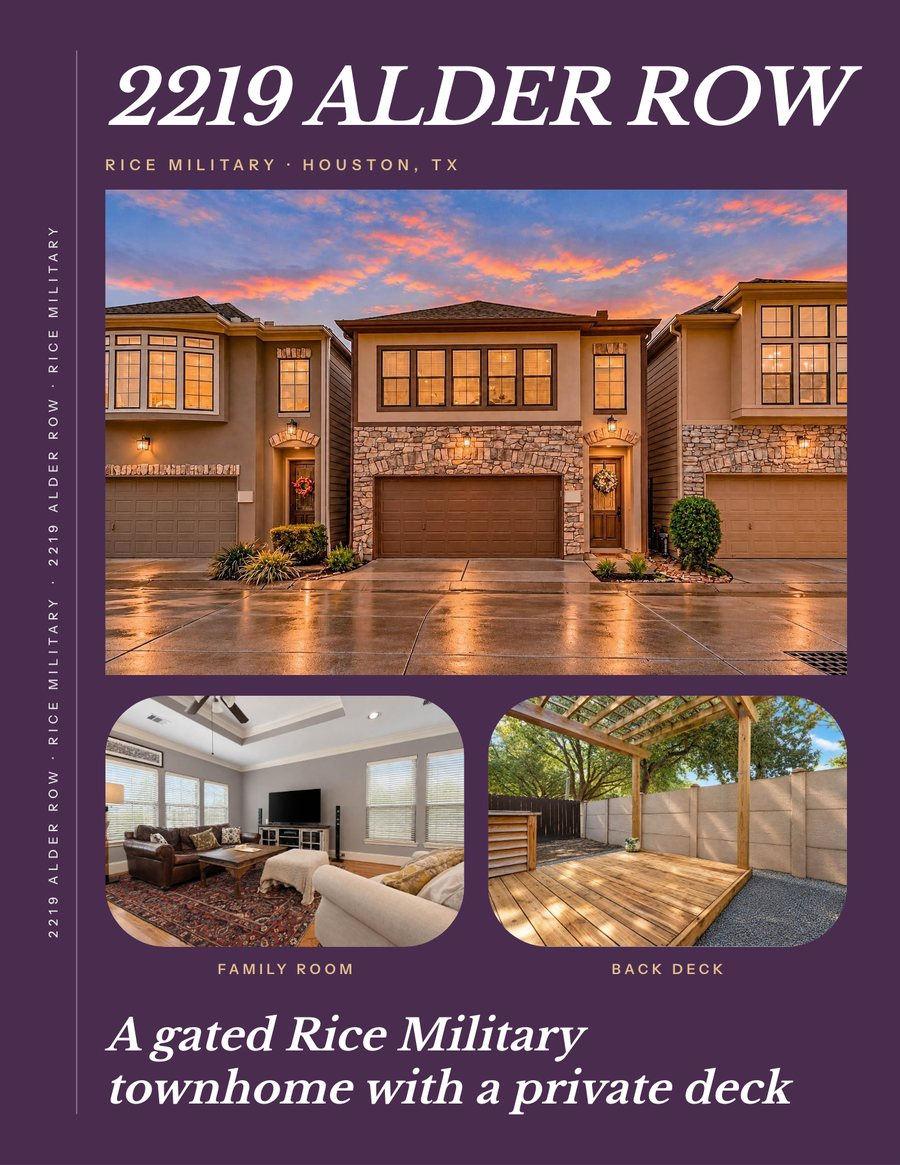
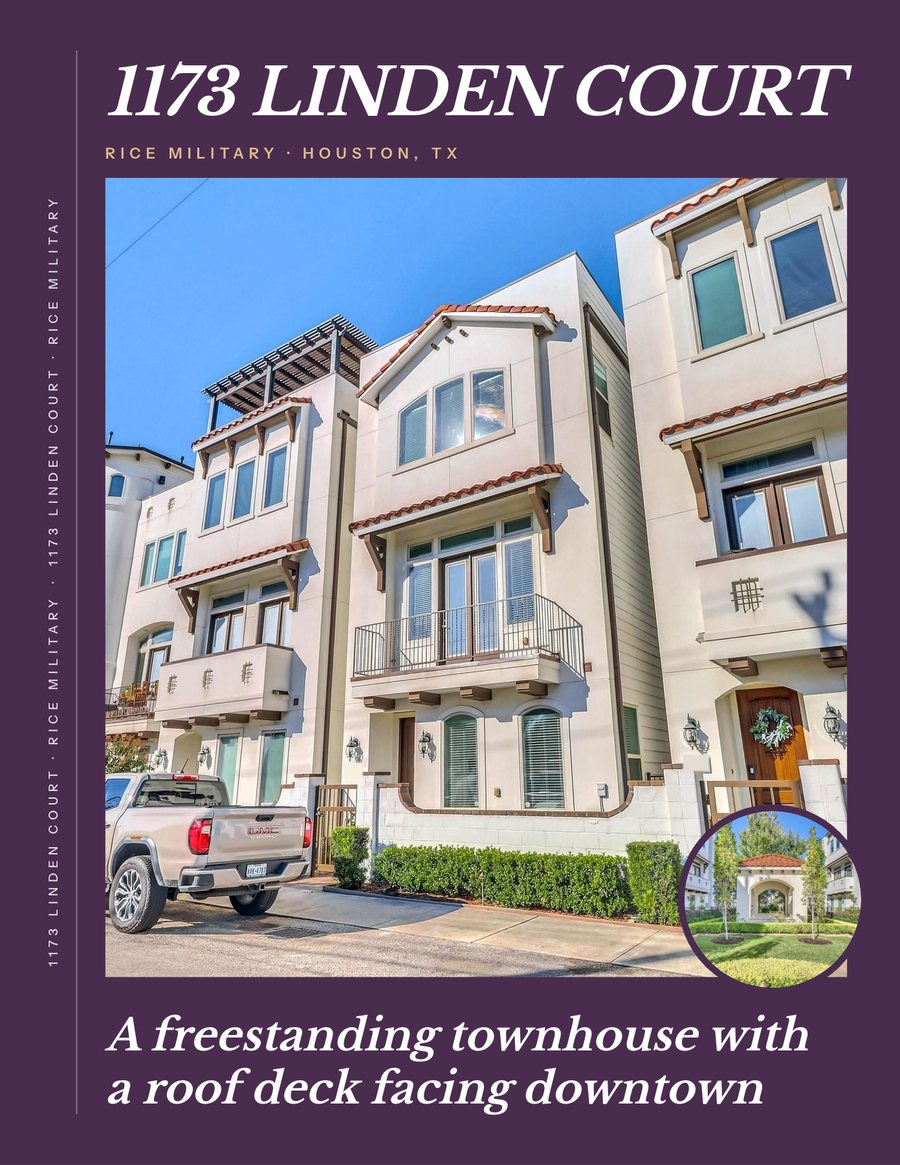
Garden Serif cover B, Asymmetric Just Sold 6x9 and Diagonal Just Sold 6x11 live (approved 11/24/2026)

diff --git a/designs/garden-serif/gs-fo.js b/designs/garden-serif/gs-fo.js
@@ -277,7 +277,7 @@
   // The Open House flyer's own order, grown into the listing's cover: the rail with the street and the neighborhood; the street as the
   // display words, as large as the measure allows; the place in champagne caps; the house wide, the round room photo laid over its
   // top corner (over the sky, never the house); one Libre italic line at the foot.
-  FO.COVER = 'onebr';   // owner 11/23 (p1): the earlier cover, its one round photo at the bottom right corner
+  FO.COVER = 'corner';   // owner 11/24 (books 2-3 round 2, Q1): cover B, the street on one line, the house full size, one round photo
   // the cover's small rooms: the plan's strip first, then the listing's other room photos, never a photo or a space the fold-over shows elsewhere
   FO.coverRooms = (D, n) => { const P = (D.sw || {}).plan || {}, ph = D.photos || {}, used = new Set([].concat(P.left || [], P.right || [], P.backRow || ['bath2'], D.plan ? [] : [(P.back || [])[0] || (P.backNoplan || [])[0]].filter(Boolean))), usedSp = new Set([...used].map(id => SW.space(D, id)));
     const cand = [].concat(P.strip || [], Object.keys(ph)).filter((id, i, a) => a.indexOf(id) === i && ph[id] && !ph[id].fullHouse && !used.has(id) && !usedSp.has(SW.space(D, id)) && !/^(front|exterior|aerial|street|plan|evening|twilight|dusk)/i.test(id) && !/front|aerial|street/i.test(ph[id].tags || ''));
@@ -563,18 +563,32 @@
   FO.back = (D, o) => { o = o || {}; const K = D.sw || {}, KB = K.back || {}, FB = ((D.companion || {}).flyer || {}).back || {}, hasPlan = !!D.plan, P = K.plan || {}, flyer = !!o.flyer, issues = [];
     const topId = flyer ? P.flyerTop : (P.back || [])[0] || (P.backNoplan || [])[0];
     const rowIds = flyer ? (P.flyerBack || []).slice(0, 3) : (P.backRow || ['bath2']).slice(0, 3), rowCards = FO.cards(D, rowIds);
-    const TOP = 30, CT = FO.CARD_Y - 14, TBH = 104, TBY = CT - TBH, n = Math.max(1, rowCards.length), RH = flyer ? (n > 2 ? 106 : 118) : (n > 2 ? 112 : 128), CL = 3, clh = 13, RY = TBY - 14 - CL*clh - 8 - RH, ZB = RY - 20;
+    const TOP = 30, CT = FO.CARD_Y - 14, TBH = 104, TBY = CT - TBH, n = Math.max(1, rowCards.length), CL = 3, clh = 13; let RH = flyer ? (n > 2 ? 106 : 118) : (n > 2 ? 112 : 128), RY = TBY - 14 - CL*clh - 8 - RH, ZB = RY - 20, wuB = null;
     let h = GS.rail('left', (D.listing || {}).address), t = '', colX, colW;
-    // the row of captioned photos
-    { const g = 16, pw = (CW - (n - 1)*g)/n; rowCards.forEach((c, i) => { h += FO.capT(D, c, X0 + i*(pw + g), RY, pw, RH, CL, 'back.photo' + i, {fs: n > 2 ? 9.25 : 10, lh: clh, min: 3}); }); }
     // the plan (its box its own width, on the right) or the outdoor photo
-    if(hasPlan){ const PM = (D.plan.levels || []).length >= 3 ? 340 : 300, RT = FO.roomTable(D), tNeed = RT.rows.length ? 12 + 20 + Math.ceil(RT.rows.length/2)*20 : 0;
+    // owner 11/24 (books 2-3 round 2 p4, p6; a standing rule for every plan with a room sizes table): the plan larger and taller, closer to the
+    // top; the table tighter (short ruled rows) and listing every room with its size
+    if(hasPlan){ const PM = (D.plan.levels || []).length >= 3 ? 360 : 330, PT = 16, RT = FO.roomTable(D), need = RT.rows.length ? FO.roomTableNeed(RT) : 0;
+      let wide = false, tNeed = RT.rows.length ? 10 + FO.RT_KH + Math.ceil(RT.rows.length/2)*FO.RT_RH : 0;
       // owner 11/23 (books 2-3 p5, every flyer back; carried to the fold-over back, same builder): the plan moves up to the top and a table of
       // the listing's room sizes (its facts when it gives none) sits under it, in the plan's own width, down to the photo row
-      const pM = Math.max(160, ZB - TOP - 36 - tNeed), pc0 = FO.planBox(D, X0, TOP, pM, PM), pw = Math.round(parseFloat(/width:([\d.]+)pt/.exec(pc0.html)[1])), py = RT.rows.length ? TOP : TOP + Math.max(0, (ZB - TOP - (pc0.bottom - TOP))/2), pc = FO.planBox(D, X1 - pw, py, pM, PM);
+      let pM = Math.max(160, ZB - PT - tNeed), pc0 = FO.planBox(D, X0, PT, pM, PM);
+      for(let k = 0; k < 4 && RT.rows.length && pc0.bottom + tNeed > ZB + 0.5 && pM > 160; k++){ pM = Math.max(160, pM - (pc0.bottom + tNeed - ZB)); pc0 = FO.planBox(D, X0, PT, pM, PM); }   // the plan's card can run taller than asked: the table keeps its full rows
+      // the room names do not fit two to a row under the plan: the table runs the page's full width in four columns under the plan and the write-up
+      if(RT.rows.length && need > Math.round(parseFloat(/width:([\d.]+)pt/.exec(pc0.html)[1])) + 0.5){ wide = true; tNeed = 10 + FO.RT_KH + Math.ceil(RT.rows.length/4)*FO.RT_RH; pM = Math.max(160, ZB - PT - tNeed); pc0 = FO.planBox(D, X0, PT, pM, PM);
+        for(let k = 0; k < 4 && pc0.bottom + tNeed > ZB + 0.5 && pM > 160; k++){ pM = Math.max(160, pM - (pc0.bottom + tNeed - ZB)); pc0 = FO.planBox(D, X0, PT, pM, PM); } }
+      const pw = Math.round(parseFloat(/width:([\d.]+)pt/.exec(pc0.html)[1])), py = RT.rows.length ? PT : PT + Math.max(0, (ZB - PT - (pc0.bottom - PT))/2), pc = FO.planBox(D, X1 - pw, py, pM, PM);
       h += pc.html; issues.push(...pc.issues); window.planIssues = pc.issues; colX = X0; colW = X1 - pw - 22 - X0;
-      if(RT.rows.length) h += FO.roomTableHtml(RT, X1 - pw, pc.bottom + 14, pw, ZB - pc.bottom - 14); }
+      if(RT.rows.length){ const nc = wide ? 4 : 2, tw = wide ? CW : pw, rowsN = Math.ceil(RT.rows.length/nc), tH = FO.RT_KH + rowsN*FO.RT_RH;
+        // a plan that cannot grow (its own resolution or width) leaves room: the table's rows take a little, the photo row the rest (never a gap)
+        const slack = Math.max(0, ZB - (pc.bottom + 10 + tH)), give = Math.min(slack, 110); RH += give; RY -= give; ZB -= give;
+        const tH2 = Math.min(FO.RT_KH + rowsN*(FO.RT_RH + 1.5), ZB - pc.bottom - 10);
+        h += FO.roomTableHtml(RT, X1 - tw, pc.bottom + 10, tw, tH2, nc);
+        if(wide) wuB = pc.bottom;   // the full-width table: the write-up ends level with the plan's foot
+        colX = X0; colW = X1 - pw - 22 - X0; } }
     else { const c = FXS.cardFor(D, topId), pw = 288, tph = ZB - TOP - 8 - 3*13; h += FO.capT(D, c, X1 - pw, TOP, pw, tph, 3, 'back.top', {fs: 10, lh: 13, min: 3}); colX = X0; colW = X1 - pw - 22 - X0; }
+    // the row of captioned photos
+    { const g = 16, pw = (CW - (n - 1)*g)/n; rowCards.forEach((c, i) => { h += FO.capT(D, c, X0 + i*(pw + g), RY, pw, RH, CL, 'back.photo' + i, {fs: n > 2 ? 9.25 : 10, lh: clh, min: 3}); }); }
     // the column: eyebrow, headline, short champagne rule, the write-up filling to the plan's foot
     const kickT = +(D.listing || {}).stories > 1 ? 'Floor by floor' : 'Room by room', ht = String((hasPlan ? (KB.plan || {}).title : (KB.noplan || {}).title) || '').replace(/\.$/, '');
     const hd = FO.headL(kickT, ht, 'back.about', colX, TOP, colW, {max: 28, min: 20}); t += hd.html;
@@ -584,7 +598,7 @@
     const used = FO.cards(D, [topId].filter(Boolean).concat(rowIds));
     const stem = w => w.replace(/^hardwood$/, 'wood').replace(/s$/, ''), saysBox = a => [...c1, ...c2].some(t => { const bw = (String(t).toLowerCase().match(/[a-z0-9'-]+/g) || []).filter(w => !['new','a','the','and','of','with'].includes(w)).map(stem), xw = new Set((String(a).toLowerCase().match(/[a-z0-9'-]+/g) || []).map(stem)); return bw.length > 0 && bw.every(w => xw.has(w)); });
     const keep = list => { const k = list.filter(x => ![].concat(x).some(saysBox) && !used.some(c => (c.s || []).some(s => [].concat(s).some(b => [].concat(x).some(a => SW.sameFact(a, b)))))); return k.length >= 3 ? k : list; };
-    const T0 = hd.y + 24, zb = ZB, nL = Math.max(3, Math.floor((zb - T0)/15.5)), lhw = +((zb - T0)/nL).toFixed(3);
+    const T0 = hd.y + 24, zb = wuB || ZB, nL = Math.max(3, Math.floor((zb - T0)/15.5)), lhw = +((zb - T0)/nL).toFixed(3);
     t += FO.full(FO.wu(keep(f2.concat(f1)), colX, T0, colW, nL*lhw + 0.01, 'back.about', 10.5, lhw, 'body')).replace('data-slot="back.about"', `data-slot="back.about" data-vc="1"${hasPlan ? ' data-growmax="1.45"' : ''} data-span="${(zb - T0).toFixed(2)}" data-pool="${Math.max(P.pool || 16, 18)}"` + (colW < 240 ? ' data-rag="1"' : ''));
     // the blush card: one ruled table of three columns (the sign-in sheet's), champagne labels, white hairlines between
     { const pad = 18, g = 22, w3 = (CW - 2*pad - 2*g)/3, x = i => X0 + pad + i*(w3 + g), ly = TBY + 16, by = ly + 20, rows = 3, rh = (TBH - 16 - 20 - 12)/rows, fs = 9.6;
@@ -603,21 +617,23 @@
 
   // the table under the plan: the listing's rooms with their sizes (by floor on a home of two or more stories); without room sizes, its facts
   FO.roomTable = D => { const L = D.listing || {}, multi = +L.stories > 1, ord = ['First', 'Second', 'Third', 'Fourth'];
-    const rooms = (L.rooms || []).filter(r => r && r.name && r.size).slice(0, 8).map(r => ({l: r.name, v: String(r.size).replace(/\s*x\s*/i, ' × '), lv: +r.level || 0}));
+    const rooms = (L.rooms || []).filter(r => r && r.name && r.size).map(r => ({l: r.name, v: String(r.size).replace(/\s*x\s*/i, ' × '), lv: +r.level || 0}));
     if(rooms.length >= 3) return {title: 'Room sizes', rows: rooms.sort((a, b) => a.lv - b.lv)};
     const rows = []; if(L.beds) rows.push({l: 'Bedrooms', v: String(L.beds)}); if(L.baths) rows.push({l: 'Baths', v: String(L.baths)}); if(L.sqft) rows.push({l: 'Square feet', v: Number(L.sqft).toLocaleString('en-US')});
     if(L.stories) rows.push({l: 'Stories', v: String(L.stories)}); if(L.yearBuilt) rows.push({l: 'Built', v: String(L.yearBuilt)}); if(L.lotSize) rows.push({l: 'Lot', v: String(L.lotSize).replace(/\s*Lot$/i, '')});
     return {title: 'The facts', rows: rows.length >= 3 ? rows : []}; };
-  FO.roomTableHtml = (RT, x, y, w, hh) => { const n = RT.rows.length, rowsN = Math.ceil(n/2), kh = 20, rh = Math.min(26, (hh - kh)/rowsN), top = y + Math.max(0, (hh - kh - rowsN*rh)/2), g = 14, cw = (w - g)/2;
+  FO.RT_KH = 16; FO.RT_RH = 16.5;
+  FO.roomTableNeed = RT => { let m = 0; RT.rows.forEach(r => { m = Math.max(m, FXS.width(r.l, 'font-family:Instrument Sans;font-weight:500;font-size:8.8pt') + FXS.width(r.v, `${LBI(700)};font-size:${(8.8*1.06).toFixed(2)}pt`) + 10); }); return Math.ceil(2*m + 12); };   // owner 11/24: the tight table (kicker, row)
+  FO.roomTableHtml = (RT, x, y, w, hh, nc) => { nc = nc || 2; const n = RT.rows.length, rowsN = Math.ceil(n/nc), kh = FO.RT_KH, rh = Math.min(FO.RT_RH + 1.5, (hh - kh)/rowsN), top = y + Math.max(0, (hh - kh - rowsN*rh)/2), g = 12, cw = (w - (nc - 1)*g)/nc;
     // two columns of rooms (the plan above names the floors), champagne hairlines between rows, the size in the set's italic
-    const lab = (r, cx) => { let fs = Math.min(10, rh*0.46); const vw = () => FXS.width(r.v, `${LBI(700)};font-size:${fs*1.06}pt`), lw = () => FXS.width(r.l, `font-family:Instrument Sans;font-weight:500;font-size:${fs}pt`); while(fs > 8.2 && lw() + vw() + 8 > cw) fs -= 0.2; return fs; };
+    const lab = (r, cx) => { let fs = Math.min(10, rh*0.58); const vw = () => FXS.width(r.v, `${LBI(700)};font-size:${fs*1.06}pt`), lw = () => FXS.width(r.l, `font-family:Instrument Sans;font-weight:500;font-size:${fs}pt`); while(fs > 8.6 && lw() + vw() + 4 > cw) fs -= 0.2; return Math.max(8.6, fs); };
     const fsAll = Math.min(...RT.rows.map(r => lab(r))), lh = fsAll*1.3;
     let b = cline('gs-eyebrow', RT.title.toUpperCase(), x, top, w, 9, 12, 'back.rooms.kicker', 'letter-spacing:3pt');
     for(let k = 0; k <= rowsN; k++) b += `<div class="abs" style="left:${x}pt;top:${top + kh + k*rh}pt;width:${w}pt;height:1pt;background:var(--gs-accent);opacity:.45"></div>`;
-    b += `<div class="abs" style="left:${x + cw + g/2 - .3}pt;top:${top + kh + 4}pt;width:1pt;height:${rowsN*rh - 8}pt;background:var(--gs-accent);opacity:.45"></div>`;
-    RT.rows.forEach((r, i) => { const col = i < rowsN ? 0 : 1, row = i % rowsN, cx = x + col*(cw + g), ty = top + kh + row*rh + (rh - lh)/2;
-      b += `<div class="abs" style="left:${cx}pt;top:${ty}pt;width:${cw*0.66}pt;height:${lh}pt;font-family:Instrument Sans;font-weight:500;font-size:${fsAll}pt;line-height:${lh}pt;color:var(--gs-on);white-space:nowrap" data-slot="back.rooms${i}" data-lines="1">${esc(r.l)}</div>`;
-      b += `<div class="abs" style="left:${cx + cw*0.5}pt;top:${ty}pt;width:${cw*0.5}pt;height:${lh}pt;font-family:'Libre Baskerville';font-style:italic;font-weight:700;font-size:${(fsAll*1.06).toFixed(2)}pt;line-height:${lh}pt;color:var(--gs-accent);text-align:right;white-space:nowrap" data-slot="back.rooms${i}.size" data-lines="1">${esc(r.v)}</div>`; });
+    for(let c = 1; c < nc; c++) b += `<div class="abs" style="left:${x + c*(cw + g) - g/2 - .3}pt;top:${top + kh + 4}pt;width:1pt;height:${rowsN*rh - 8}pt;background:var(--gs-accent);opacity:.45"></div>`;
+    RT.rows.forEach((r, i) => { const col = Math.floor(i/rowsN), row = i % rowsN, cx = x + col*(cw + g), ty = top + kh + row*rh + (rh - lh)/2, vW = Math.ceil(FXS.width(r.v, `${LBI(700)};font-size:${fsAll*1.06}pt`)) + 2;
+      b += `<div class="abs" style="left:${cx}pt;top:${ty}pt;width:${cw - vW - 3}pt;height:${lh}pt;font-family:Instrument Sans;font-weight:500;font-size:${fsAll}pt;line-height:${lh}pt;color:var(--gs-on);white-space:nowrap" data-slot="back.rooms${i}" data-lines="1">${esc(r.l)}</div>`;
+      b += `<div class="abs" style="left:${cx + cw - vW}pt;top:${ty}pt;width:${vW}pt;height:${lh}pt;font-family:'Libre Baskerville';font-style:italic;font-weight:700;font-size:${(fsAll*1.06).toFixed(2)}pt;line-height:${lh}pt;color:var(--gs-accent);text-align:right;white-space:nowrap" data-slot="back.rooms${i}.size" data-lines="1">${esc(r.v)}</div>`; });
     return b; };
   FO.tallStack = () => { const col = document.querySelector('[data-tallcol]'); if(!col) return; const bottom = +col.dataset.tallcol, ps = [...document.querySelectorAll('[data-para]')]; if(ps.length < 2) return;
     const [a, b] = ps, la = parseFloat(a.style.lineHeight), lb = parseFloat(b.style.lineHeight), na = SW.lines(a).n, nb = SW.lines(b).n;

diff --git a/designs/garden-serif/postcard.html b/designs/garden-serif/postcard.html
@@ -131,11 +131,11 @@ window.brochureReady = (async function(){
         // owner 11/23 (p7): on the 6x11 the round room moves off the words (it ran into LISTED's D); four places to pick from (data.jlCircle):
         // 'br' the card's bottom right corner, part of the circle off the trim (default) | 'tr' the top right corner, part off the trim |
         // 'bl' inside the photo's bottom left corner | 'bm' the photo's foot, middle, half off the trim
-        const cpos = big ? ((D.piece || {}).jlCircle || D.jlCircle || 'br') : 'word', room = roomIds[0], dc = big && cpos !== 'word' ? 150 : d;
+        const cpos = big ? ((D.piece || {}).jlCircle || D.jlCircle || 'br') : 'word', room = null /* owner 11/24 (books 2-3 round 2 p7, p8, ALSO): no round photo on either Just Listed front */, dc = big && cpos !== 'word' ? 150 : d;
         if(room){ const at = {word: [PX + d*0.08, 22 + d/2], br: [W - dc*0.32, H - dc*0.32], tr: [W - dc*0.32, dc*0.32], bl: [PX + dc/2 + 16, H - dc/2 - 16], bm: [PX + PW/2, H - dc*0.3]}[cpos] || [PX + d*0.08, 22 + d/2];
           const sky = cpos === 'word';
           h += GS.circ(D, room, at[0], at[1], dc, 'front.circle', sky ? {over: 'front.hero', ring: 5, shrink: cpos === 'tr' ? 'tr' : 'tl'} : {ring: 5}).replace('class="gs-circ"', `class="gs-circ" data-rise="0"${cpos === 'br' || cpos === 'tr' || cpos === 'bm' ? ' data-bleed="1"' : ''}`); }
-        const cw = TW - (room ? d*0.42 + 8 : 0),   /* the words keep their approved size (and the five bullets under them) wherever the round room sits */ ls = Math.min(FXS.fitSize('LISTED', icapsC, cw, 66*k, 30), 70*k), lh1 = ls*1.0;
+        const cw = TW - (roomIds[0] ? d*0.42 + 8 : 0),   /* the words keep their approved size (and the five bullets under them) wherever the round room sits */ ls = Math.min(FXS.fitSize('LISTED', icapsC, cw, 66*k, 30), 70*k), lh1 = ls*1.0;
         const js = Math.min(ls*1.2, FXS.fitSize('JUST', icapsC, cw - 4, ls*1.2, ls));   /* owner 11/17 fill: JUST set up to run out under LISTED's width (no empty corner beside it) */
         const lex = Math.max(0, Math.min(ls*0.3, (TW - 6 - 0.15*ls - FXS.width('LISTED', `${icapsC};font-size:${ls}pt`))/6)), jex = Math.max(0, Math.min(js*0.3, (Math.min(FXS.width('LISTED', `${icapsC};font-size:${ls}pt`) + 5*lex, cw - 4) - FXS.width('JUST', `${icapsC};font-size:${js}pt`))/3));   /* LISTED tracked out to the column, JUST to LISTED */   /* JUST tracked out to LISTED's width */
         parts.push(status('Just', CX0, y, cw + 40, js, 'front.status').replace('style="left:', `style="letter-spacing:${(-0.5 + jex).toFixed(2)}pt;left:`) + status('Listed', CX0, y + js*1.16, TW + 40, ls, 'front.status2').replace('style="left:', `style="letter-spacing:${(-0.5 + lex).toFixed(2)}pt;left:`)); y += js*1.16 + lh1 + 14;   // owner 11/23 (p6, p7): more space between JUST and LISTED (the J's tail hit the L)
@@ -149,7 +149,7 @@ window.brochureReady = (async function(){
         // a wide house runs across the top from the rail to the bleed, the round room over its top right corner; the words under it
         let SH = big ? 214 : 206; while(SH < H*0.72 && !SW.fits(D, pid, W + 9 - CX0 + 6, SH + 9)) SH += 4;
         h += photoAt(CX0 - 6, -9, W + 15 - CX0, SH + 9);
-        const room = roomIds[0]; if(room) h += GS.circ(D, room, W - d*0.5 - 14, SH - d*0.36, d, 'front.circle', {over: 'front.hero', ring: 5, shrink: 'tr'}).replace('class="gs-circ"', 'class="gs-circ" data-rise="0"');
+        const room = null; if(room) h += GS.circ(D, room, W - d*0.5 - 14, SH - d*0.36, d, 'front.circle', {over: 'front.hero', ring: 5, shrink: 'tr'}).replace('class="gs-circ"', 'class="gs-circ" data-rise="0"');
         const TX1 = W - 24 - (room ? d + 4 : 0), y0 = SH + 14, yB = H - 24, cW = Math.round((W - 24 - CX0)*0.5), cR = CX0 + cW + 24, rW = W - 24 - cR;
         const ls = Math.min(FXS.fitSize(word.toUpperCase(), icapsC, cW, 46*k, 22), 50*k);
         h += status(word, CX0, y0, cW, ls, 'front.status');
@@ -305,6 +305,7 @@ window.brochureReady = (async function(){
   SW.fitLogos();
   ContactCard.fit(document);
   if(front && sold) blkCenter();
+  if(front && sold) evenBox();
   
   // the About box is sized to its content: a write-up that sets in fewer lines than planned does not leave an empty strip at the foot of its box
   if(!front) fitDisc();
@@ -352,6 +353,15 @@ window.brochureReady = (async function(){
     SW.resetFill(); SW.fill(); FO.refit(); }
   // owner 11/17 (book 4): on a Just Sold front with the house across the top, JUST SOLD and the street sit centered between the photo's
   // foot and the agent's name under them, measured on the letters
+  // owner 11/24 (books 2-3 round 2 p9, p10): the purple box bigger; the space from "Thinking about selling?" down to the box matches the
+  // space from the box down to the agent's name (measured on the letters). The lockup starts at the top; the box takes the rest.
+  function evenBox(){ const nb = document.getElementById('notebox'), nt = document.querySelector('[data-slot="front.note"]'), cta = document.querySelector('[data-slot="front.cta"]'), nm = document.querySelector('[data-slot="agent.name"]'), lk = document.getElementById('lock');
+    if(!nb || !nt || !cta || !nm || !lk || lk.dataset.flush) return;
+    lk.style.top = '0pt';
+    const r = nb.getBoundingClientRect(), k2 = r.height/parseFloat(nb.style.height), ctaB = ink(cta)[1], nmT = ink(nm)[0];
+    const G = (r.top - ctaB)/k2, old = parseFloat(nb.style.height), hh = (nmT - ctaB)/k2 - 2*G;
+    if(!(G > 0) || hh <= old) return;
+    nb.style.height = hh.toFixed(2) + 'pt'; nt.style.top = (parseFloat(nt.style.top) + (hh - old)/2).toFixed(2) + 'pt'; }
   function blkCenter(){ const bl = document.getElementById('jsblk'), ag = document.getElementById('jsagent'), ph = document.querySelector('.ph[data-slot-photo="front.hero"]'); if(!bl || !ag || !ph) return;
     const t0 = ink(bl.querySelector('[data-slot="front.status"]'))[0], b0 = ink(bl.querySelector('[data-slot="front.address"]'))[1], nm = ag.querySelector('[data-slot="agent.name"]'); if(!nm || !isFinite(t0) || !isFinite(b0)) return;
     const pb = ph.getBoundingClientRect().bottom, at = ink(nm)[0], want = pb + ((at - pb) - (b0 - t0))/2, el = bl.querySelector('[data-slot="front.status"]'), sc = parseFloat(el.style.width)/(el.getBoundingClientRect().width || 1);
